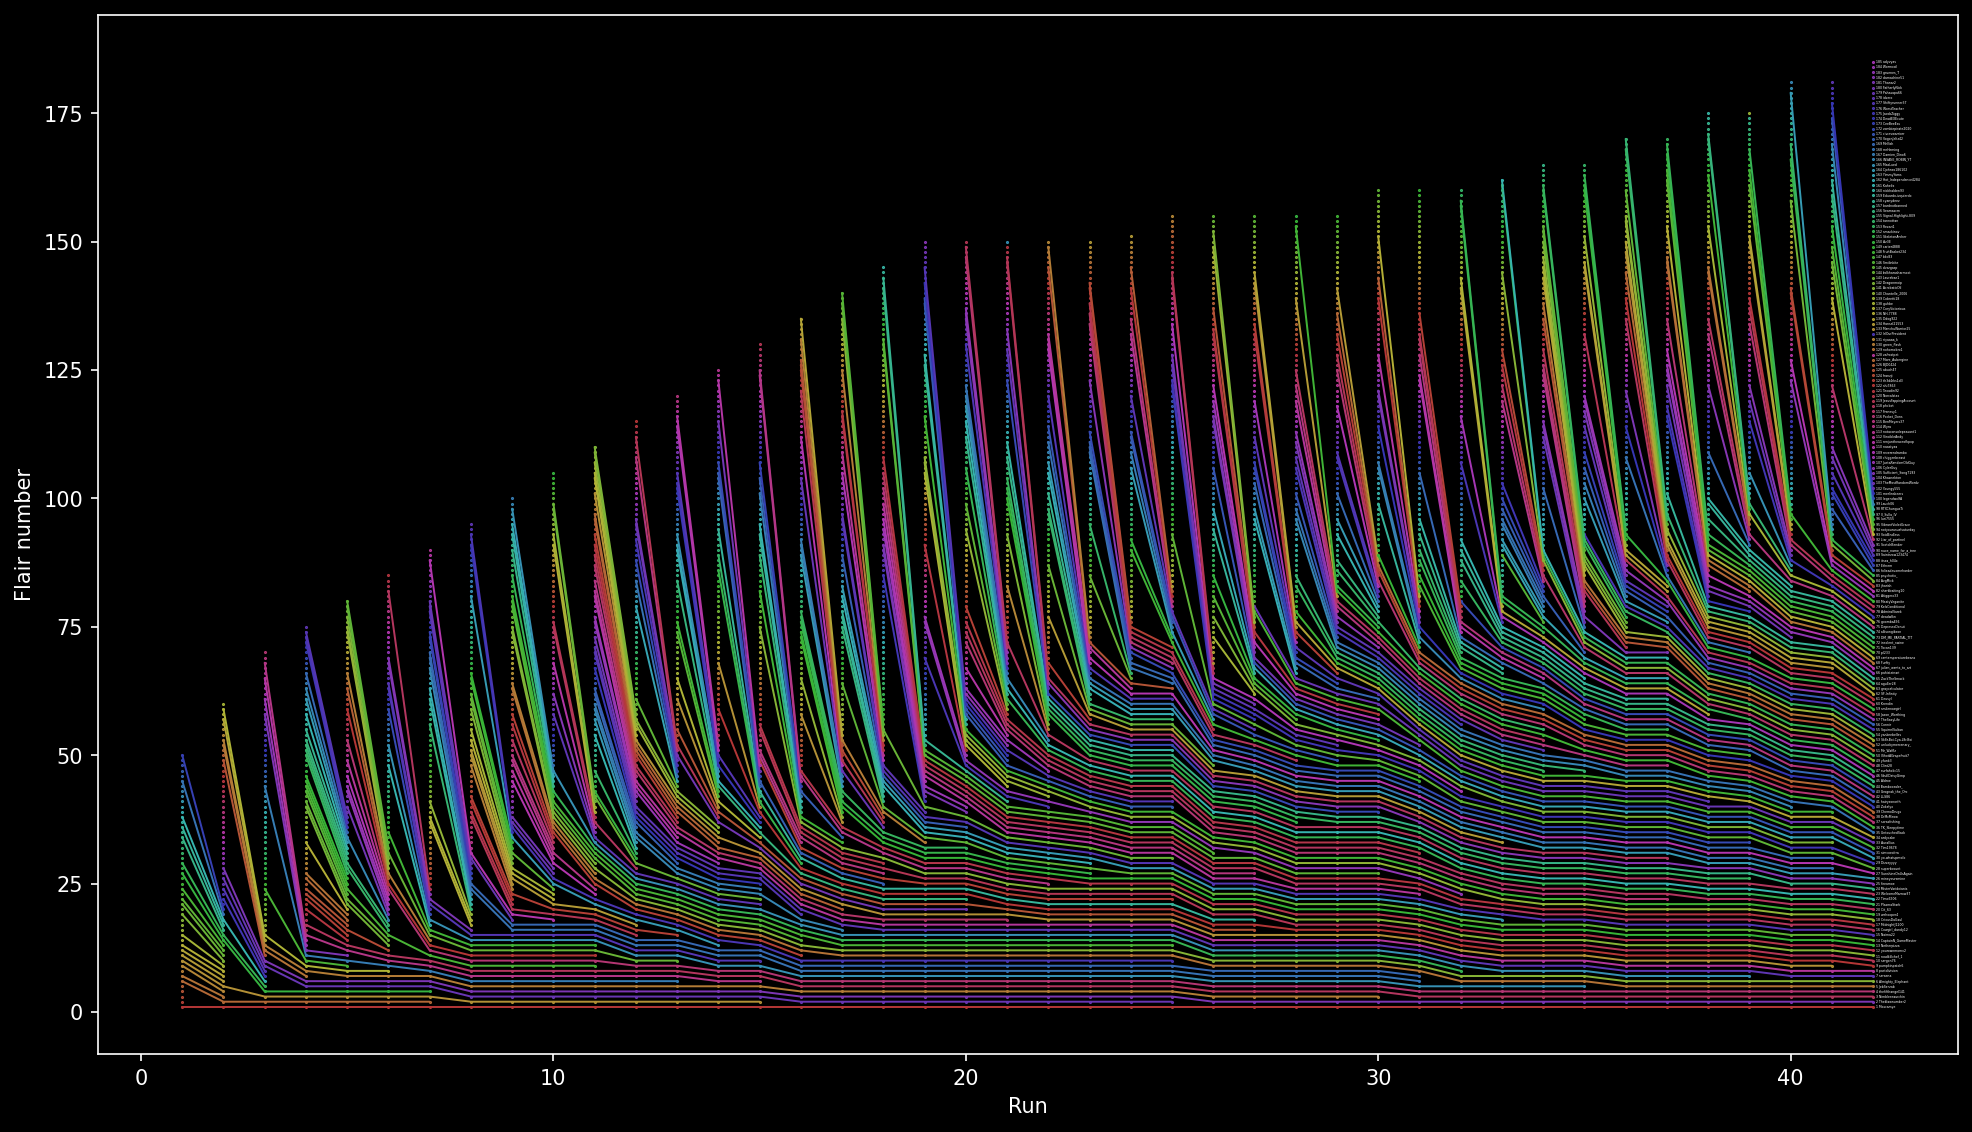
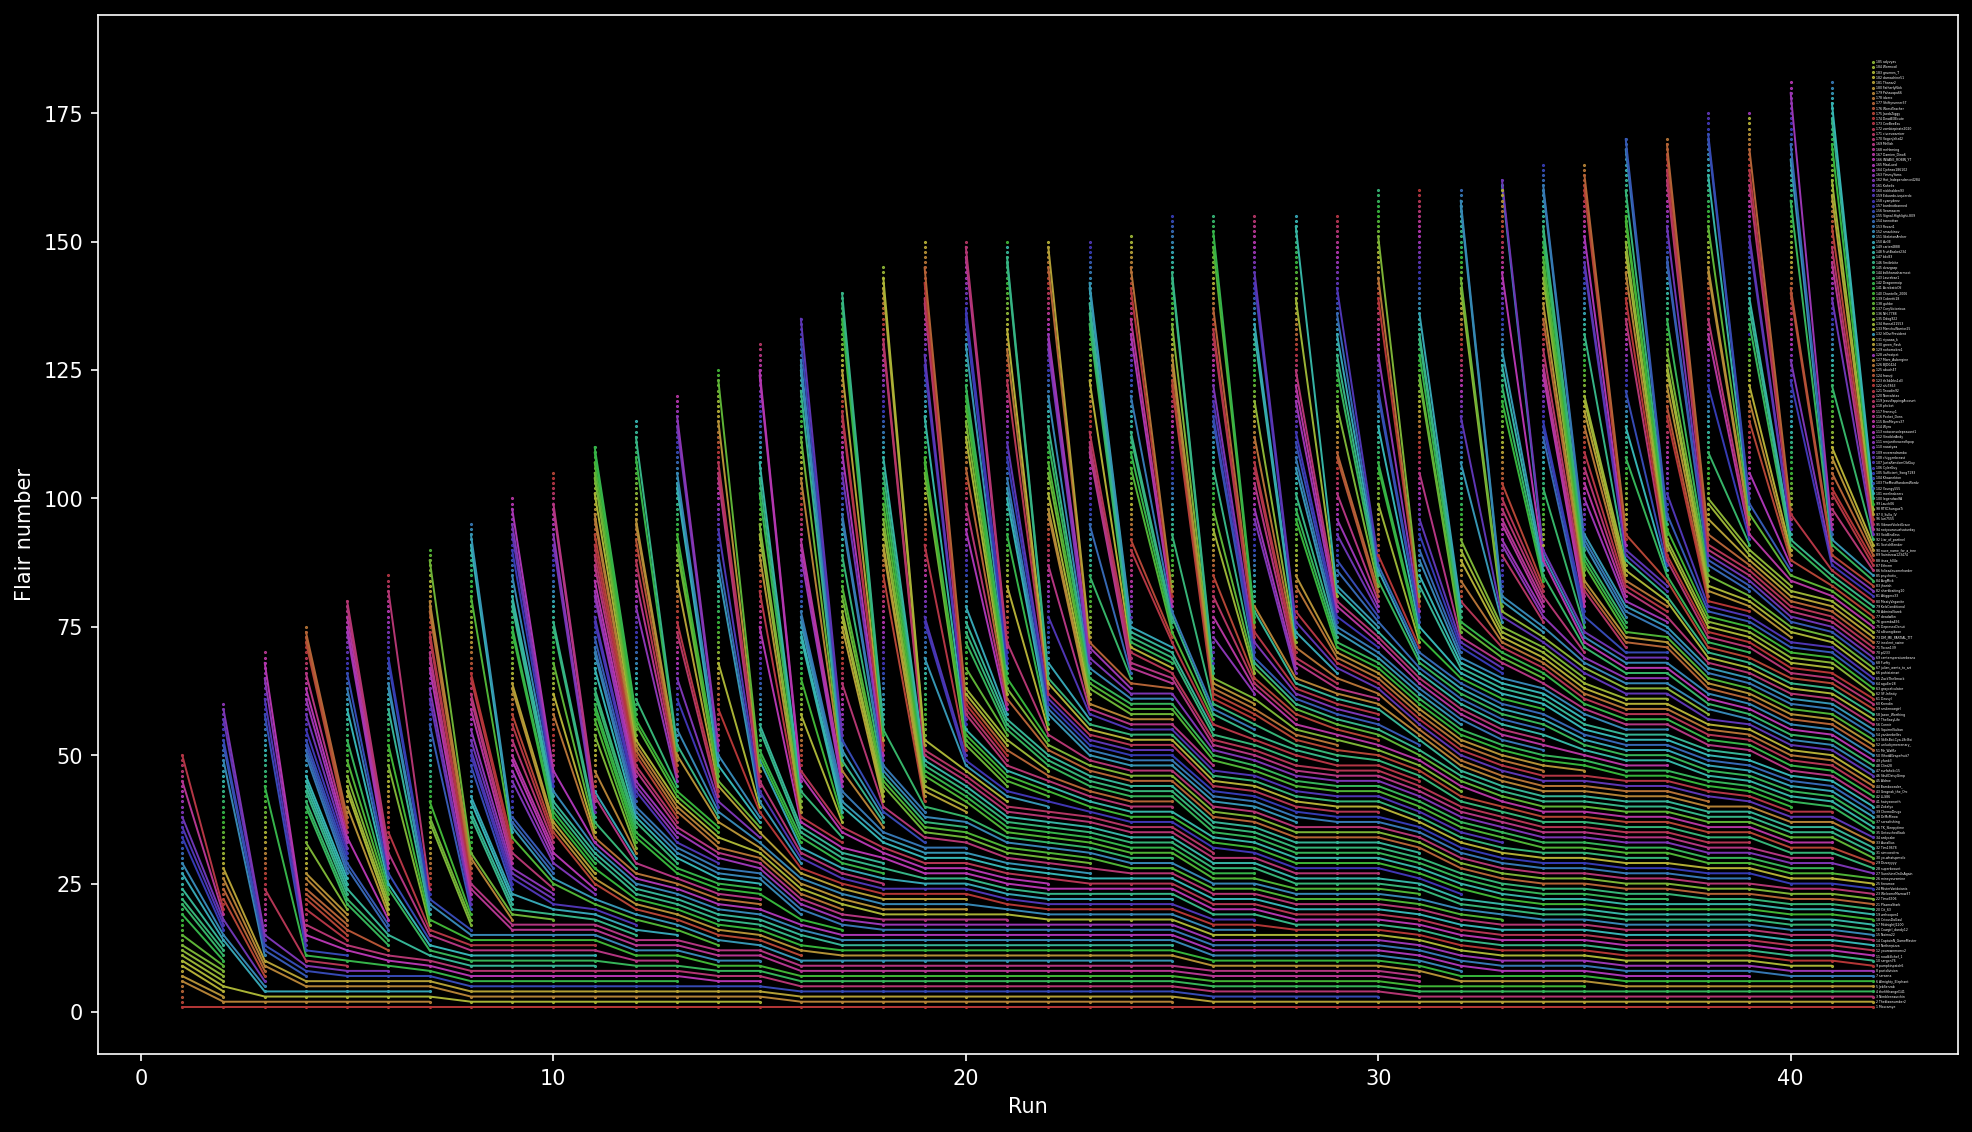
small adjustment

Changed region(s): [[0.0928, 0.1237, 0.9589, 0.8966]]

diff --git a/website/allgraph.html b/website/allgraph.html
@@ -45,7 +45,8 @@
                 <br>
                 <br>
                 This graph contains all the history of the members of The Confluence and their flair numbers throughout
-                time. Each distinct line represents a user.
+                time. Each distinct line represents a user and the labels of the current ones can be found on
+                the right.
             </p>
         </div>
     </body>

diff --git a/graphs/allgraph/allgraphfix.py b/graphs/allgraph/allgraphfix.py
@@ -47,7 +47,7 @@ for row in mega:
         row.pop(wk+1)
 
 def plot_user(index, ax):
-    d = 75
+    d = 50
     color = colorsys.hsv_to_rgb((index % d)/d, 0.70, 0.70)
     data = separate(mega[index][1:])
     for i in range(len(data[0])):
